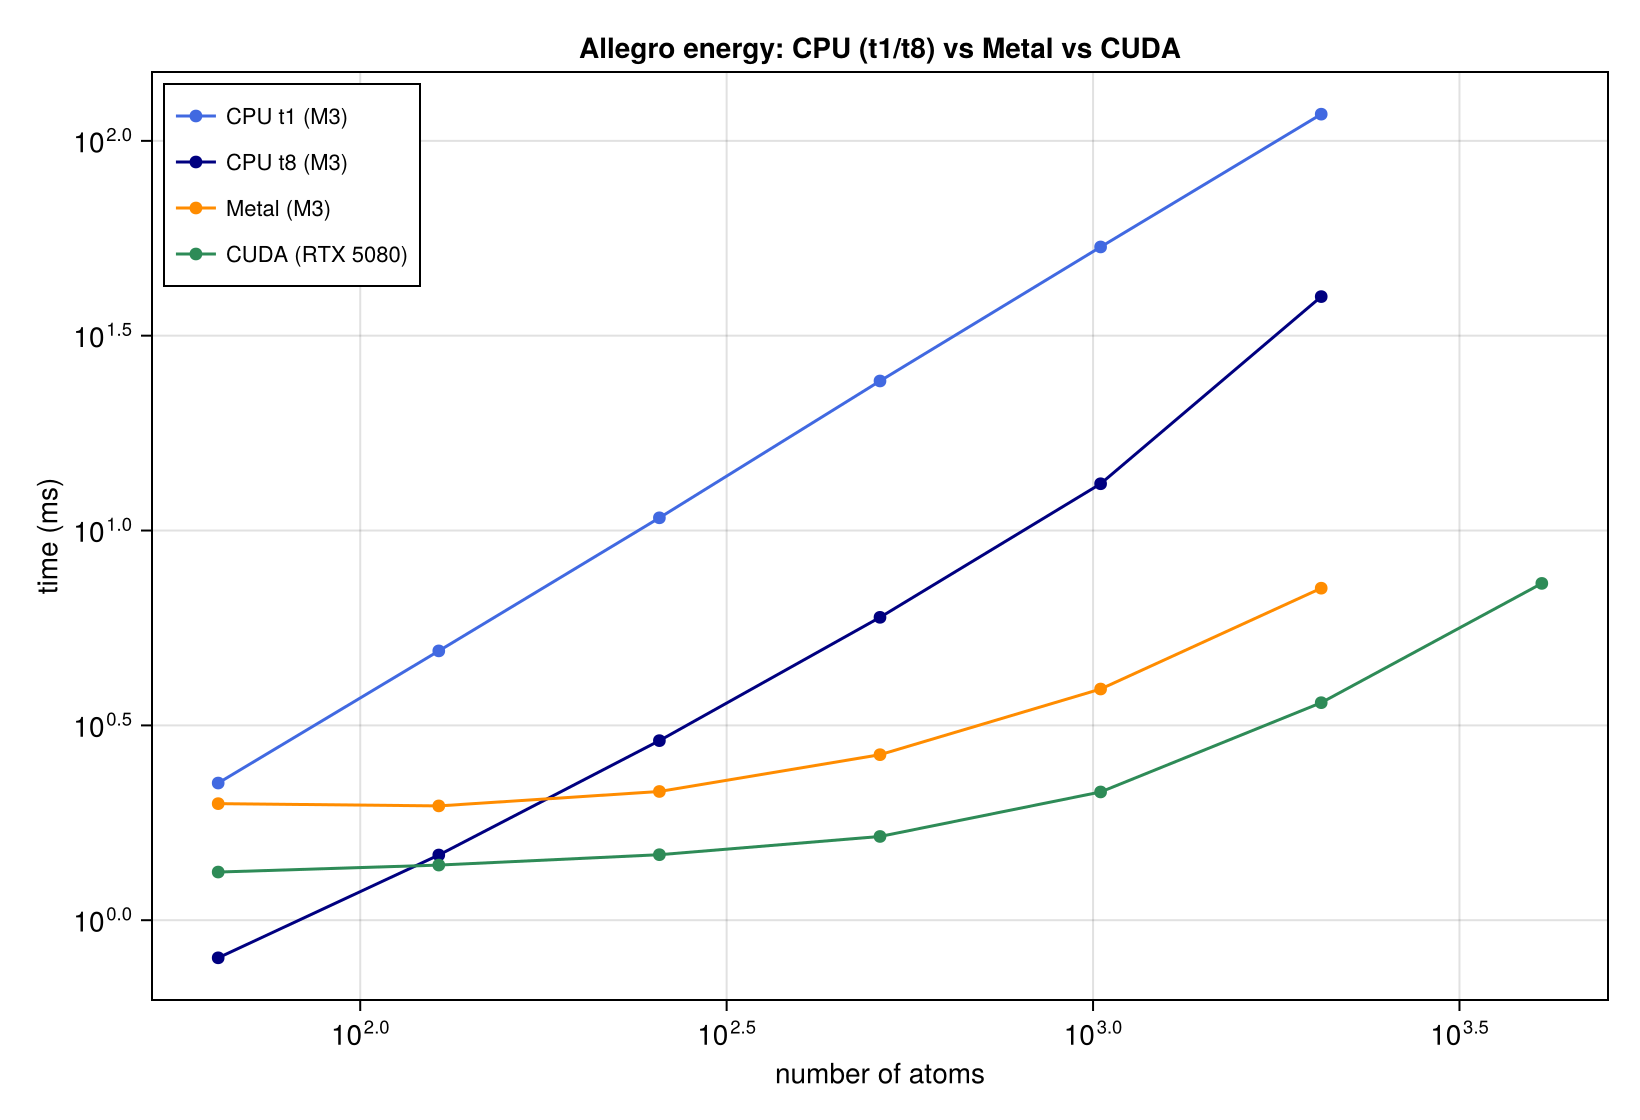
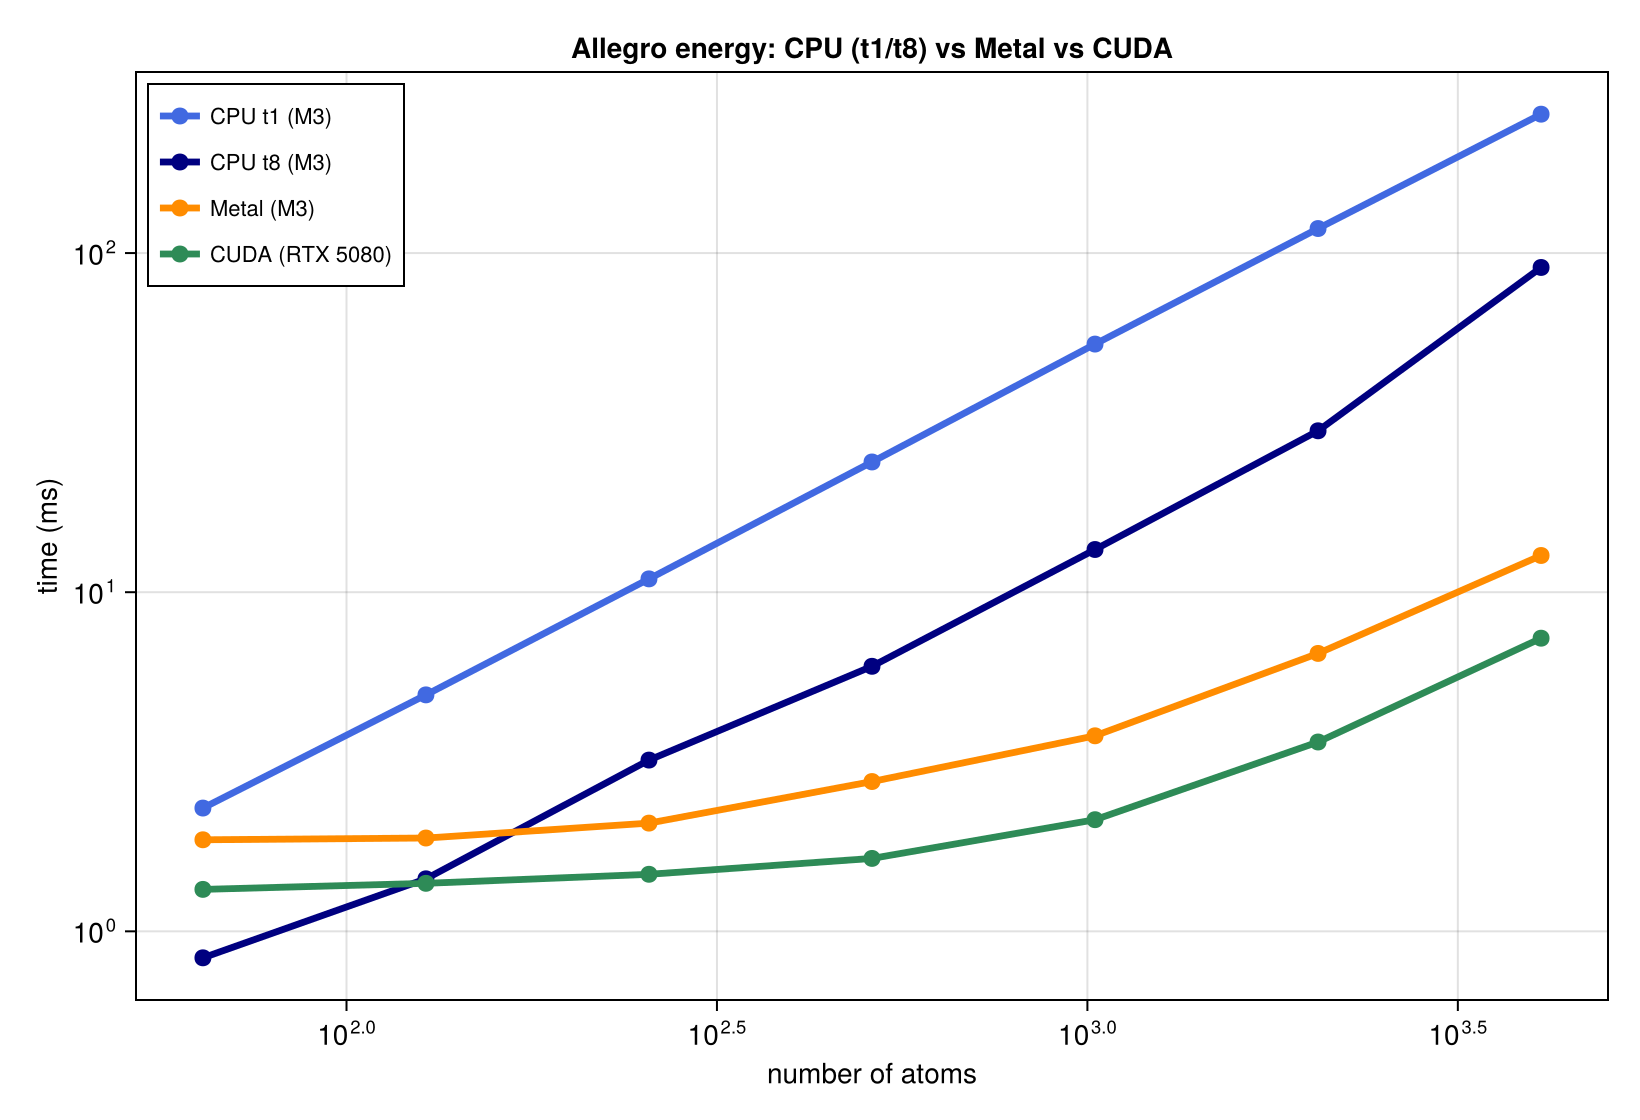
Allegro benchmarks: full t1/t8/CUDA/Metal head-to-head incl. allegro-jax
Consolidated energy and forces plots now carry every backend over the full
range it can reach: Molly (CUDA/Metal/CPU-t1/t8), nequip-allegro
(CUDA/CPU-t1/t8) and allegro-jax (CUDA/CPU). Colour encodes backend/thread,
linestyle encodes framework (Molly solid, nequip dash, jax dot). Metal is a
Molly-only capability (nequip needs float64; allegro-jax fails under
jax-metal), and allegro-jax is dense O(N^2) so its CPU line stops at ~512
atoms. Report tables and prose refreshed to match.

diff --git a/benchmark/allegro_jax_bench.py b/benchmark/allegro_jax_bench.py
@@ -23,7 +23,10 @@ import numpy as np
 
 import jax
 
-jax.config.update("jax_enable_x64", True)
+_PLAT = jax.devices()[0].platform.lower()   # "gpu" (cuda), "cpu", or "metal"
+# Apple Metal (jax-metal) is float32-only; everything else runs float64 to match the other columns.
+_X64 = os.environ.get("ALLEGRO_JAX_X64", "0" if "metal" in _PLAT else "1") == "1"
+jax.config.update("jax_enable_x64", _X64)
 
 import e3nn_jax as e3nn  # noqa: E402
 import flax.linen as nn  # noqa: E402
@@ -33,8 +36,8 @@ from allegro_jax import Allegro  # noqa: E402
 RC = 4.0
 SIZES = [int(x) for x in
          os.environ.get("ALLEGRO_SIZES", "64,128,256,512,1024,2048,4096").split(",")]
-DEVICE = jax.devices()[0].platform  # "gpu" or "cpu"
-KEY = "cuda" if DEVICE == "gpu" else "cpu"
+DEVICE = _PLAT
+KEY = "metal" if "metal" in _PLAT else ("cuda" if _PLAT == "gpu" else "cpu")
 
 
 class Model(nn.Module):

diff --git a/benchmark/allegro_benchmarks.md b/benchmark/allegro_benchmarks.md
@@ -145,31 +145,33 @@ host** while Metal is the **Apple M3** (cross-machine). Reproduce with `benchmar
 (nequip) and `benchmark/allegro_jax_bench.py` (JAX) alongside `benchmark/allegro_cuda_compare.jl` and
 `benchmark/allegro.jl` (Molly), on the same machine.
 
-**Energy, time in ms** (CUDA + CPU-t8 on the RTX 5080 host; Molly Metal on the M3). Three
-implementations: Molly native, `nequip-allegro` (PyTorch), and `allegro-jax` (e3nn-jax):
+**Energy, time in ms.** CPU (t1/t8) and CUDA are the RTX 5080 host; Molly Metal is the Apple M3.
+Every backend is shown over the full range it can reach: Metal is Molly-only (see below), and
+`allegro-jax`'s dense O(N²) CPU path becomes impractical past ~512 atoms.
 
-| atoms | Molly CUDA | nequip CUDA | allegro-jax CUDA | Molly Metal | Molly CPU-t8 | nequip CPU-t8 |
-| :---: | :---: | :---: | :---: | :---: | :---: | :---: |
-| 64   | 1.33 | 5.65  | 6.7   | 1.99 | 3.4   | 188 |
-| 256  | 1.47 | 5.59  | 30.2  | 2.14 | 16.9  | 344 |
-| 512  | 1.64 | 5.68  | 80.4  | 2.66 | 35.7  | 435 |
-| 1024 | 2.13 | 5.70  | 167.5 | 3.92 | 106.3 | 618 |
-| 2048 | 3.62 | 7.85  | 344.8 | 7.11 | 206.1 | 849 |
-| 4096 | 7.32 | 13.42 | 877.0 | —    | 457.0 | —   |
+| atoms | Molly CUDA | Molly Metal | Molly t8 | Molly t1 | nequip CUDA | nequip t8 | nequip t1 | jax CUDA | jax CPU |
+| :---: | :---: | :---: | :---: | :---: | :---: | :---: | :---: | :---: | :---: |
+| 64   | 1.33 | 1.86  | 3.4   | 11.4   | 5.65  | 162  | 14.4   | 6.7   | 13.8  |
+| 256  | 1.47 | 2.08  | 16.9  | 55.7   | 5.59  | 310  | 115.5  | 30.2  | 228.2 |
+| 512  | 1.64 | 2.76  | 35.7  | 123.0  | 5.68  | 400  | 274.2  | 80.4  | 972.2 |
+| 1024 | 2.13 | 3.77  | 106.3 | 308.3  | 5.70  | 573  | 585.1  | 167.5 | —     |
+| 2048 | 3.62 | 6.60  | 206.1 | 653.8  | 7.85  | 747  | 1242.6 | 344.8 | —     |
+| 4096 | 7.32 | 12.83 | 457.0 | 1511.2 | 13.42 | 1899 | —      | 877.0 | —     |
 
-(`torch.compile` brings nequip CUDA to ~2.5–5 ms — still slower than Molly; omitted from the plot
-for clarity. `allegro-jax` uses dense all-pairs, so it scales O(N²) and is far slower at scale.)
+(`torch.compile` brings nequip CUDA to ~2.5–5 ms — still slower than Molly; omitted for clarity.
+`allegro-jax` uses dense all-pairs, so it scales O(N²) and is far slower at scale.)
 
 ![Allegro energy: all implementations](images/allegro_benchmark_energy.png)
 
-**Forces, time in ms** (Molly analytic vs nequip autograd; CPU on the RTX 5080 host):
+**Forces, time in ms** (Molly analytic vs nequip autograd vs jax autograd; CPU on the RTX 5080 host):
 
-| atoms | Molly CPU | nequip CUDA | allegro-jax CUDA | nequip CPU-t8 |
-| :---: | :---: | :---: | :---: | :---: |
-| 64   | 45.9   | 15.2 | 6.6   | 411  |
-| 256  | 240.0  | 15.3 | 30.0  | 802  |
-| 1024 | 1280.7 | 15.4 | 169.3 | 1543 |
-| 2048 | 2914.6 | 17.1 | 346.3 | 2114 |
+| atoms | Molly t8 | nequip CUDA | nequip t8 | nequip t1 | jax CUDA | jax CPU |
+| :---: | :---: | :---: | :---: | :---: | :---: | :---: |
+| 64   | 45.9   | 15.2 | 357  | 34.8   | 6.6   | 19.7   |
+| 256  | 240.0  | 15.3 | 747  | 301.0  | 30.0  | 288.0  |
+| 512  | 558.4  | 15.3 | 1038 | 685.2  | 79.5  | 1069.5 |
+| 1024 | 1280.7 | 15.4 | 1426 | 1322.7 | 169.3 | —      |
+| 2048 | 2914.6 | 17.1 | 2287 | 2798.8 | 346.3 | —      |
 
 ![Allegro forces: all implementations](images/allegro_benchmark_force.png)
 
@@ -179,16 +181,20 @@ Reading it:
   nequip-allegro (launch-bound at ~5.6 ms flat; ~2.5–5 ms even with `torch.compile`) and stays
   sub-10 ms to 4096 atoms. `allegro-jax` uses dense all-pairs, so it scales **O(N²)** and is far
   slower at scale (877 ms vs Molly's 7 ms at 4096). On CPU, PyTorch's threading is pathological at
-  these sizes (188 ms at 64 atoms on 8 threads); Molly's threaded CPU energy is 10–50× faster. Molly
-  Metal (Apple M3) also beats nequip CUDA at small N.
-- **Metal is a Molly-only capability.** nequip-allegro requires `float64` (its per-type energy
-  shift casts to global float64), and Apple MPS is float32-only — so nequip-allegro **has no Apple
-  GPU path at all**, the same situation TorchANI has. Molly's native Metal energy runs where the
-  reference cannot.
-- **Forces are the honest gap.** Molly's analytic CPU forces are competitive with nequip's autograd
-  CPU forces (comparable to CPU-t1; nequip's CPU-t8 pulls ahead at large N because Molly's backward
-  is not yet threaded). But nequip runs forces on **CUDA** (~15 ms flat) and Molly does not yet — a
-  native GPU backward is the outstanding follow-up.
+  these sizes (162 ms at 64 atoms on 8 threads, vs Molly's 3.4 ms); Molly's threaded CPU energy is
+  10–50× faster, and Molly single-threaded (t1) still beats nequip's 8-thread energy at every size.
+  Molly Metal (Apple M3) also beats nequip CUDA at small N.
+- **Metal is a Molly-only capability.** Neither reference runs on Apple GPU: nequip-allegro requires
+  `float64` (its per-type energy shift casts to global float64) and MPS is float32-only, and
+  `allegro-jax` fails to compile under `jax-metal` (`unknown attribute code`). Molly's native Metal
+  energy runs where **both** references cannot. (The figures show t1/t8/CUDA for every backend that
+  runs, over the full range each can reach — `allegro-jax` is dense O(N²), so its CPU line stops at
+  512 atoms.)
+- **Forces are the honest gap.** Molly's analytic CPU forces track nequip's autograd CPU forces
+  closely (comparable to nequip CPU-t1 across the range; nequip CPU-t8 pulls ahead at large N because
+  Molly's backward is not yet threaded). But both nequip and `allegro-jax` run forces on **CUDA**
+  (nequip ~15 ms flat; jax ~6–350 ms O(N²)) and Molly does not yet — a native GPU backward is the
+  outstanding follow-up.
 
 ---
 
